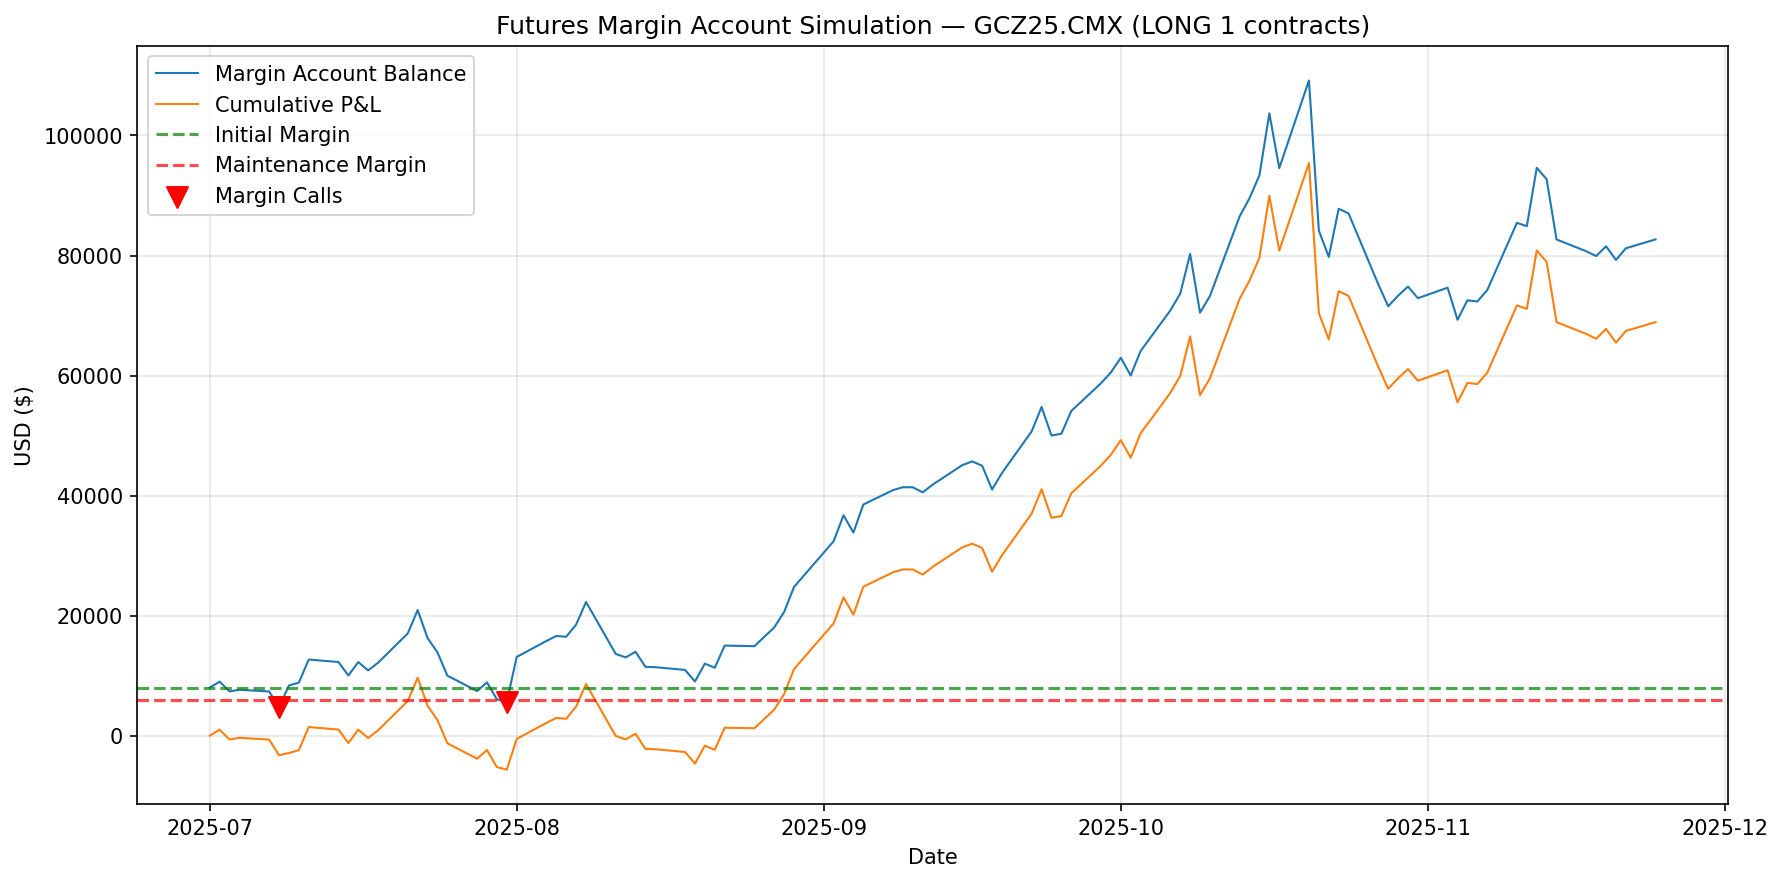
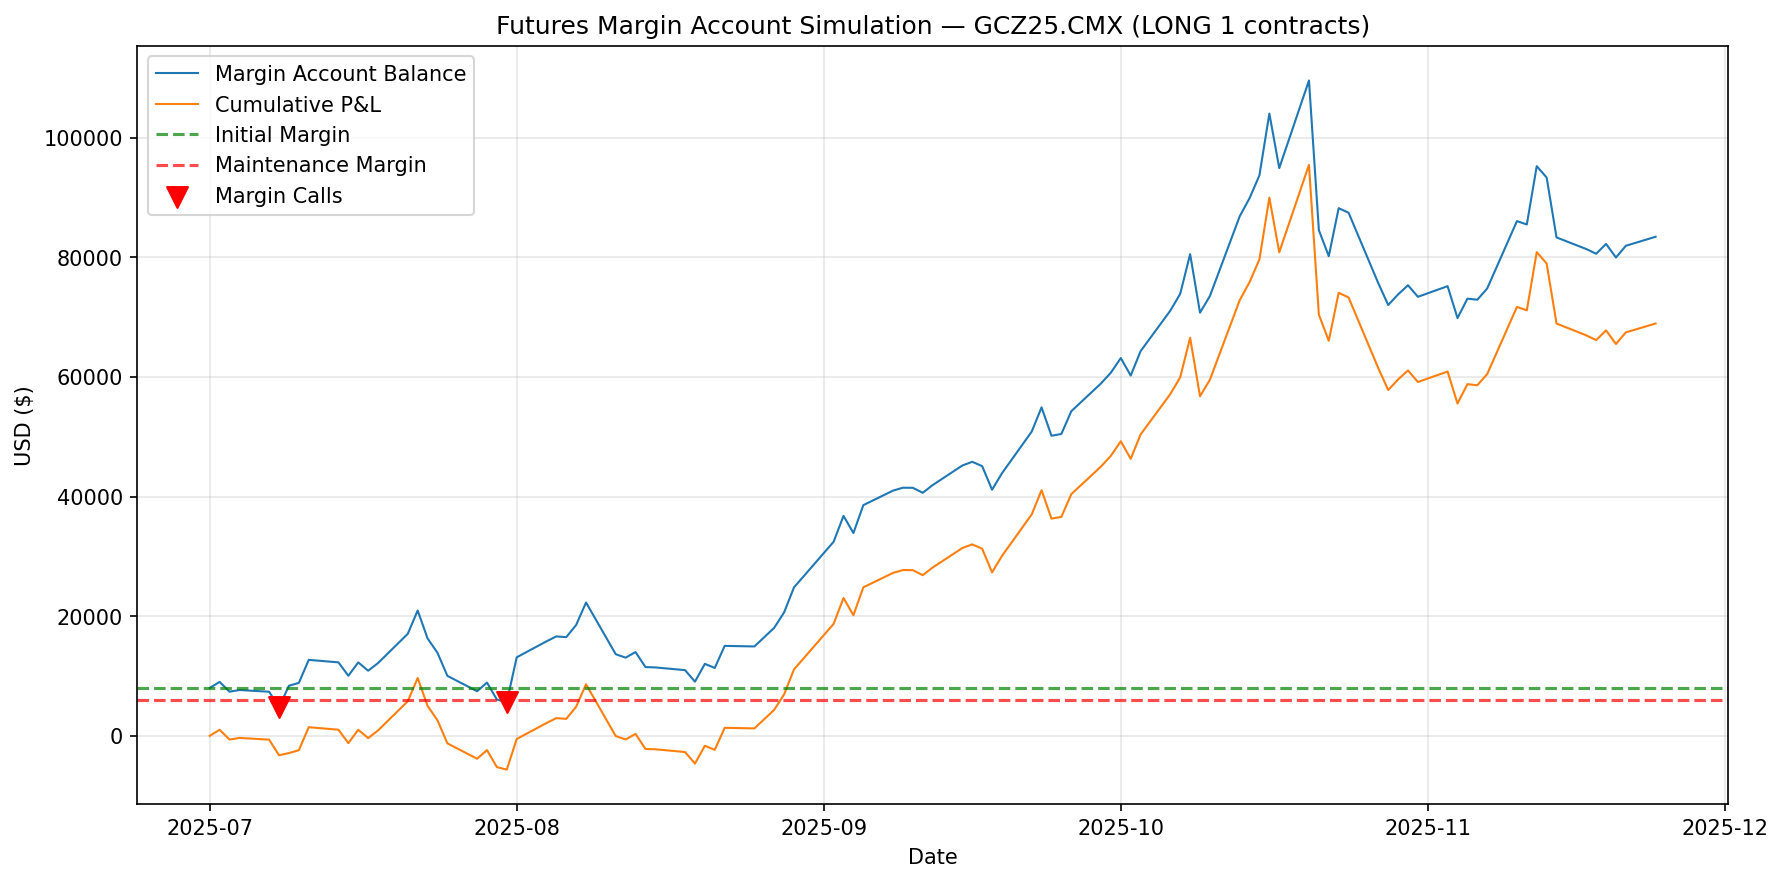
Fix interest logic in ch02 margin simulator

diff --git a/ch02_futures_markets/futures_margin_simulator.py b/ch02_futures_markets/futures_margin_simulator.py
@@ -37,7 +37,7 @@ def simulate_margin_account(variation_margin, initial_margin, maintenance_margin
 
     current_balance = initial_margin
     for date, pnl in variation_margin.items():
-        interest = initial_margin * (interest_rate / 360) * calendar_days[date] # Dividing the annual rate by 360 is the convention for most money markets instruments / As per the Hull, interest is only earned on the initial margin, not on the variation margin
+        interest = current_balance * (interest_rate / 360) * calendar_days[date] # Dividing the annual rate by 360 is the convention for most money markets instruments / Interest accrues on the opening balance (before today's variation margin is settled)
         current_balance += pnl + interest
         total_interest += interest
         margin_account[date] = current_balance

diff --git a/ch02_futures_markets/README.md b/ch02_futures_markets/README.md
@@ -1,6 +1,6 @@
 # Chapter 2 - Futures Markets and Central Counterparties
 
-Simulates a futures margin account over a holding period. Tracks daily variation margin (mark-to-market settlement), interest earned on the initial margin, margin calls when the balance drops below the maintenance threshold, and liquidation if capital runs out.
+Simulates a futures margin account over a holding period. Tracks daily variation margin (mark-to-market settlement), interest earned on the opening balance each day (before that day's variation margin is settled), margin calls when the balance drops below the maintenance threshold, and liquidation if capital runs out.
 
 ```bash
 # run from the project root
@@ -66,14 +66,14 @@ Maintenance margin:     0.75
 Results:
 
 ```
-Final margin account balance:  $82688.87
-Remaining capital:             $1384.44
-Total interest earned:         $163.33
-Total P&L:                     $69073.32
+Final margin account balance:  $83415.73
+Remaining capital:             $1395.64
+Total interest earned:         $901.38
+Total P&L:                     $69811.36
 
 Margin calls (2):
- 2025-07-08: $3241.11
- 2025-07-31: $2374.44
+ 2025-07-08: $3241.29
+ 2025-07-31: $2363.07
 ```
 
 ![Margin account chart](margin_account_ex1.png)
@@ -102,12 +102,12 @@ Results:
 Insufficient capital to meet margin call. Position liquidated on 2025-07-22
 
 Final margin account balance: $4111.10
-Remaining capital: $1243.35
-Total interest earned: $24.44
-Total P&L: $-9645.55
+Remaining capital: $1243.72
+Total interest earned: $24.81
+Total P&L: $-9645.18
 
 Margin calls (2):
- 2025-07-21: $5756.65
+ 2025-07-21: $5756.28
  2025-07-22: $3888.90
 ```
 
